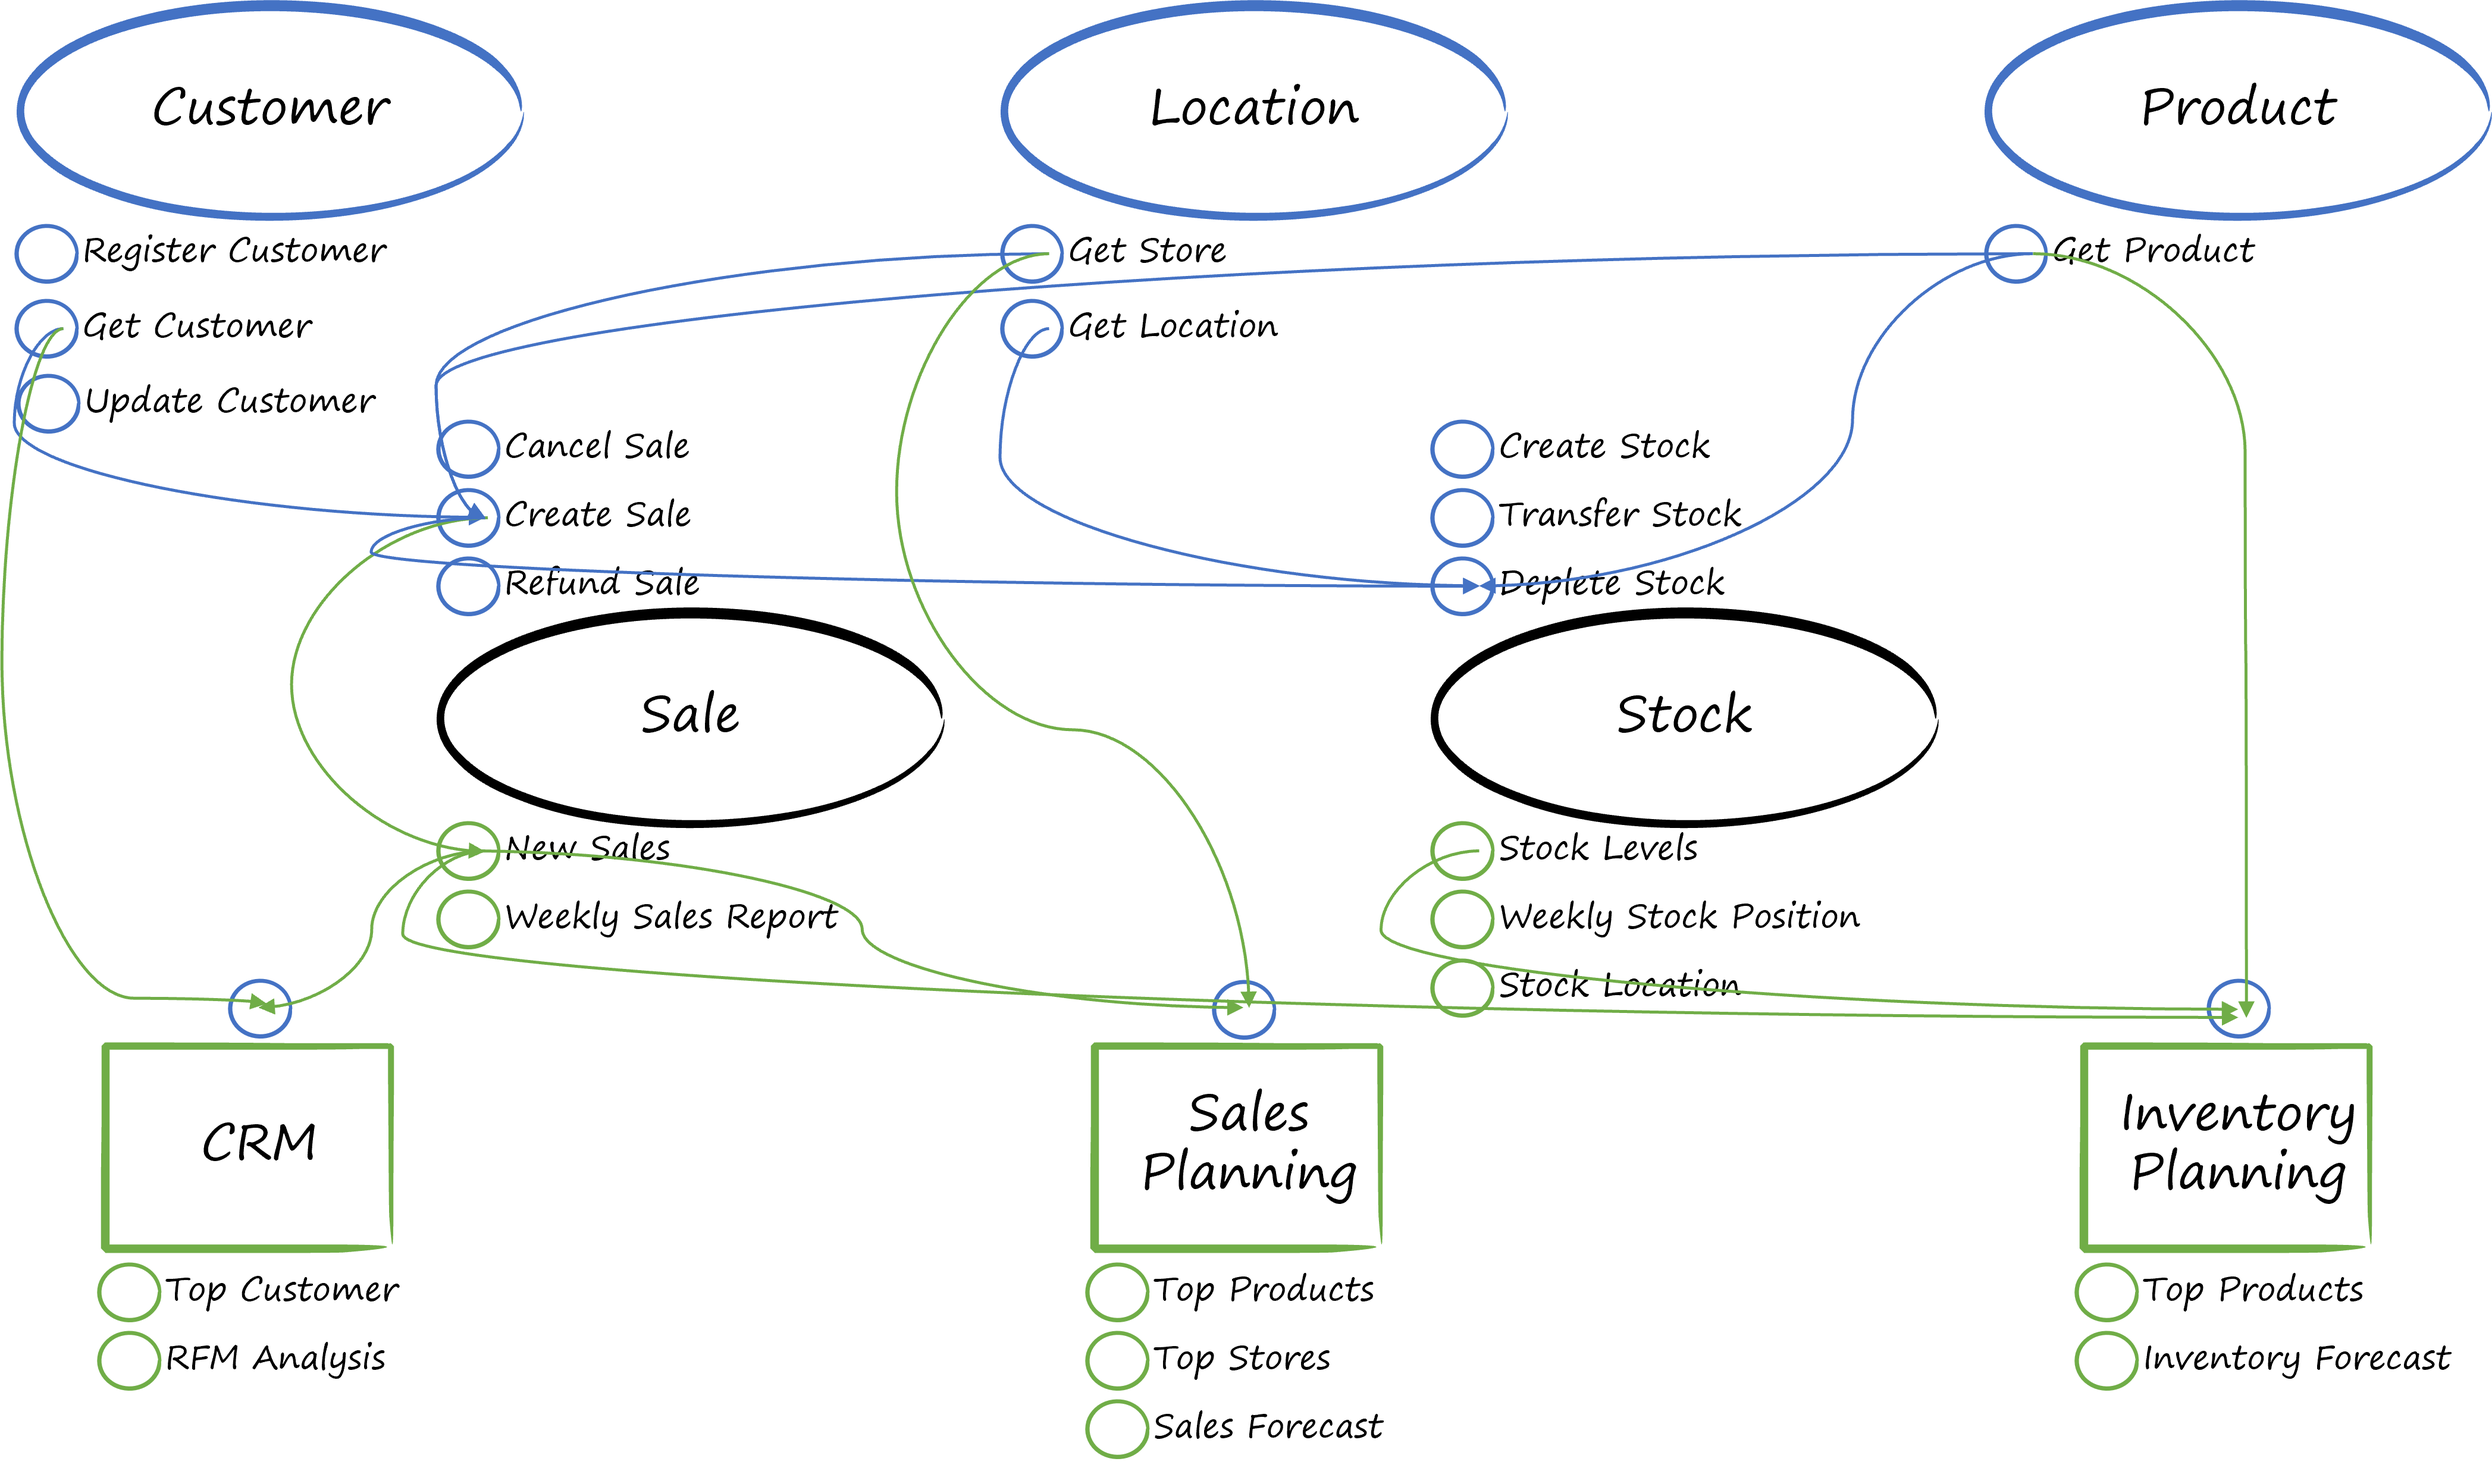
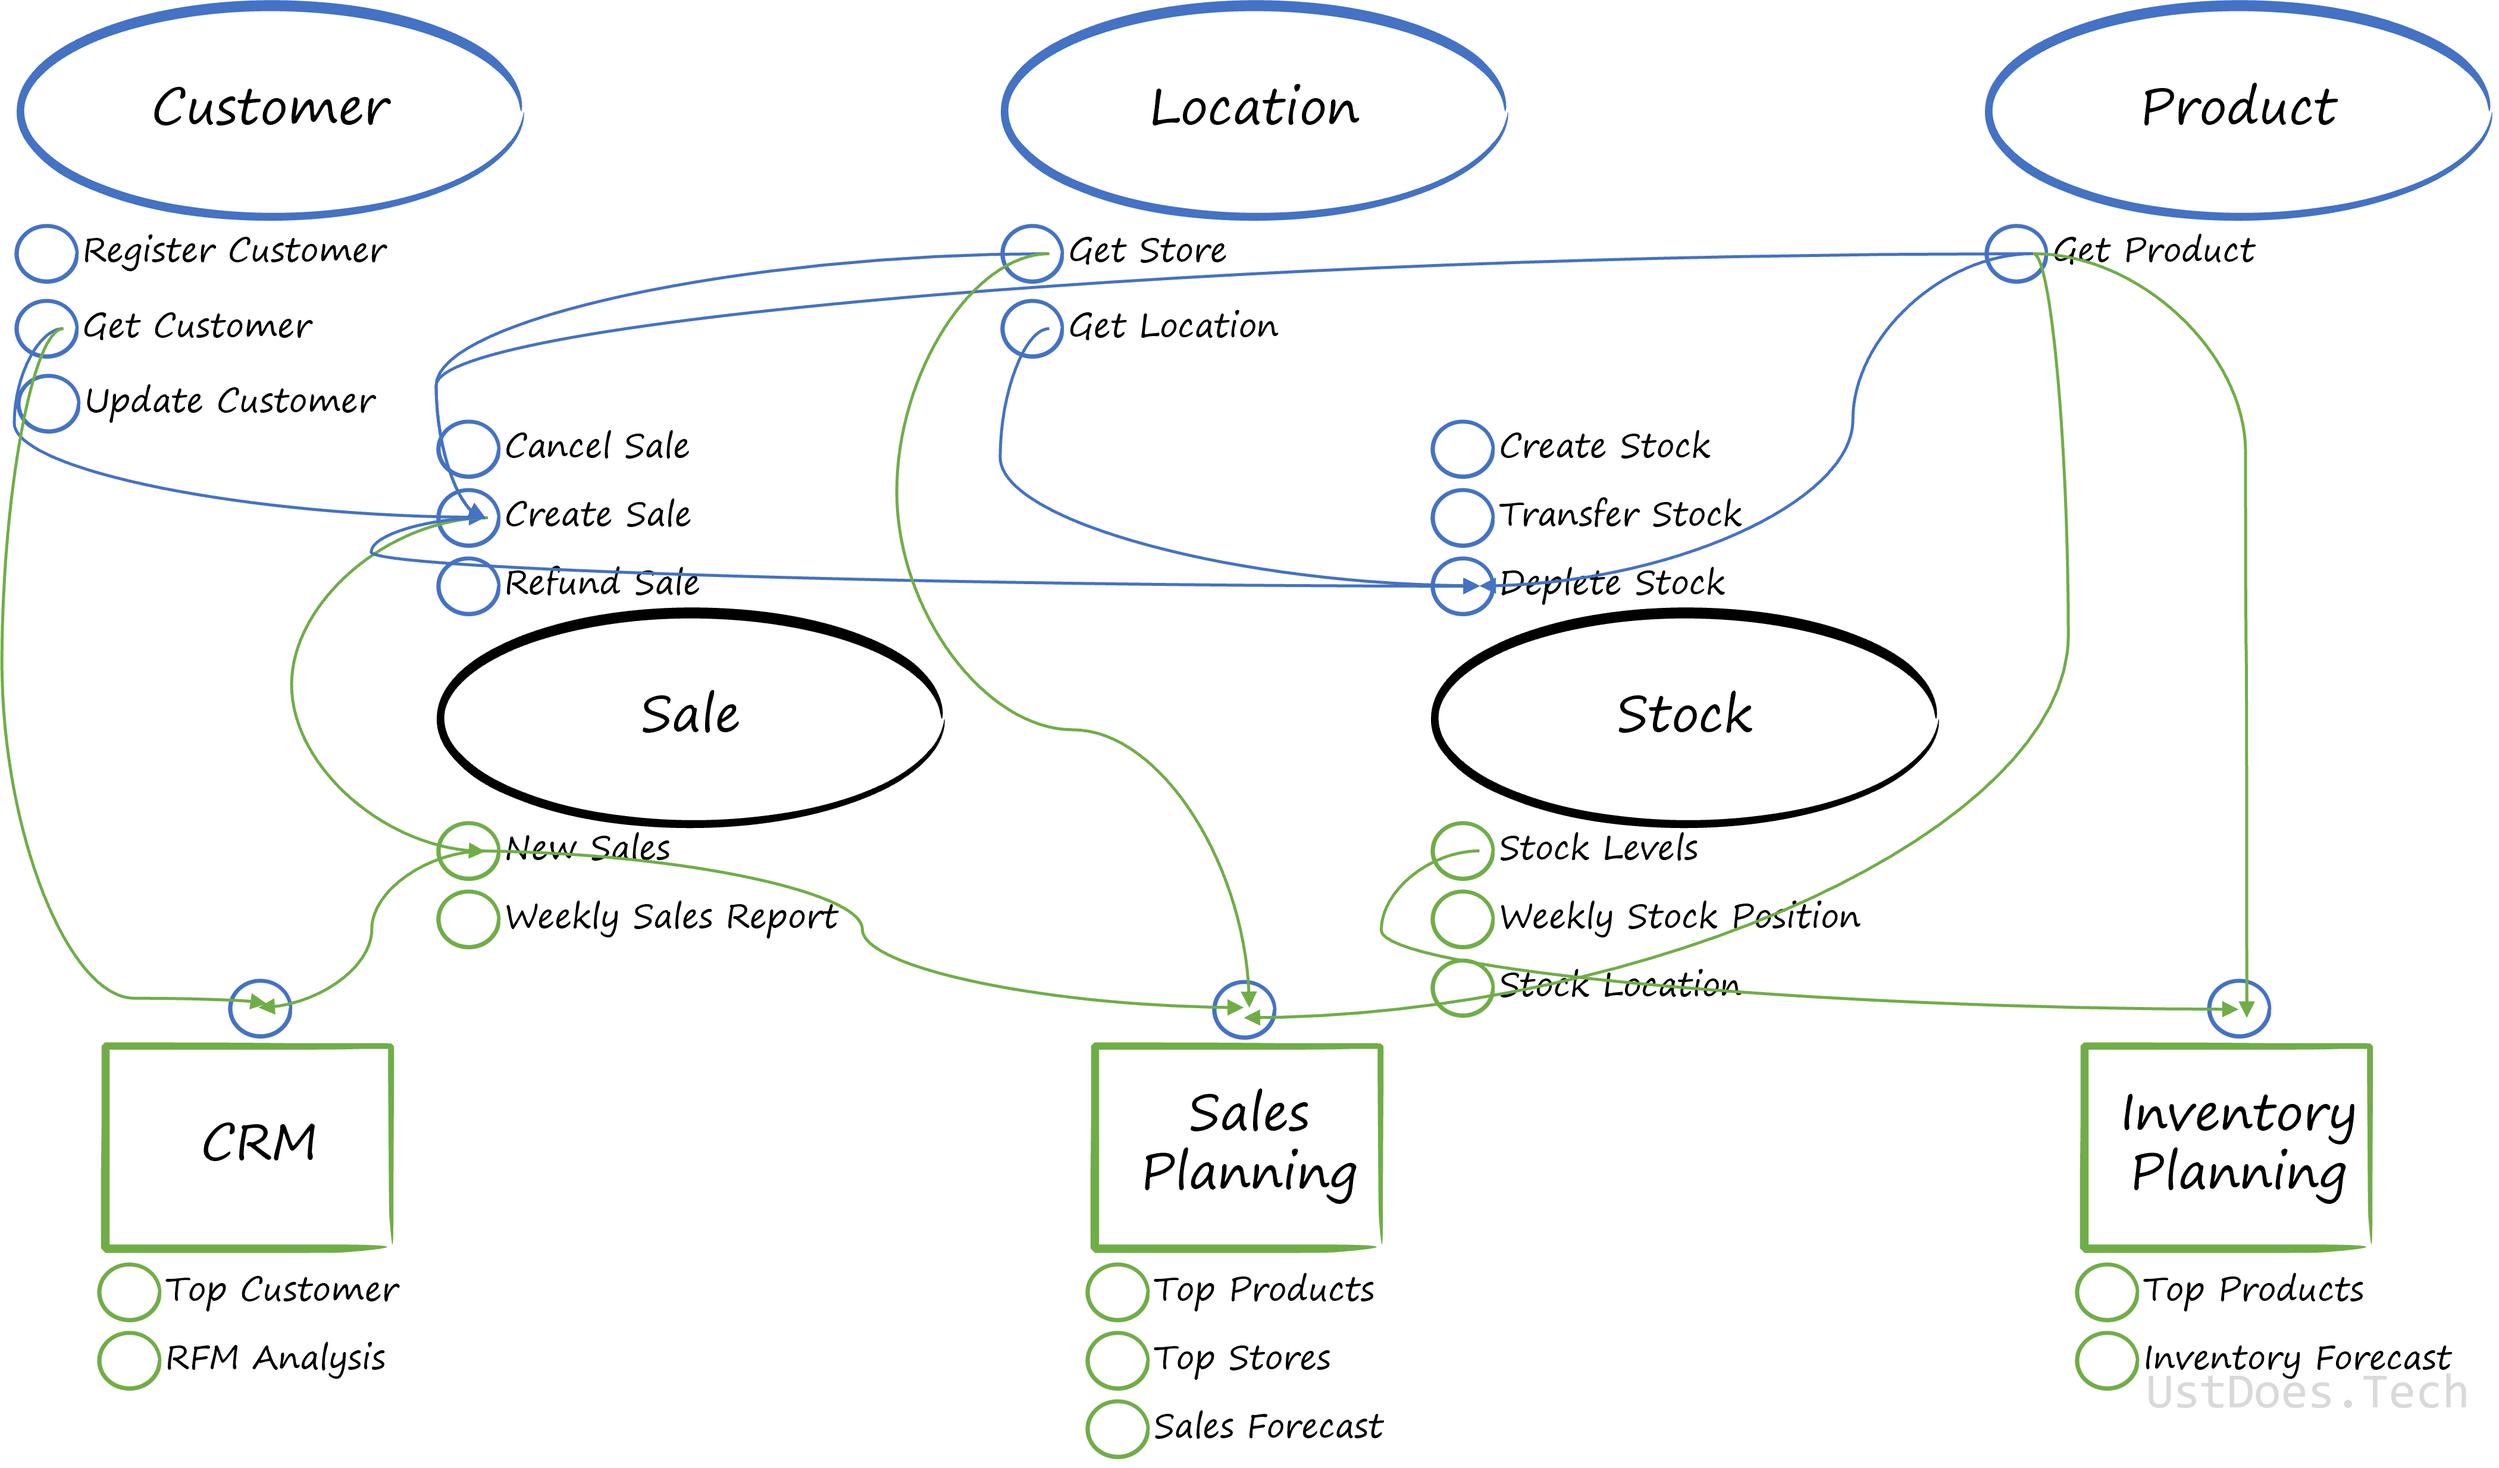
finalising blog post for data domain case study

diff --git a/content/posts/data mesh/data-domain-case-study-retail/index.md b/content/posts/data mesh/data-domain-case-study-retail/index.md
@@ -42,6 +42,73 @@ The organisational structure doesn't make this a simple use case for data mesh. 
 
 {{< img src="images/xclusiv-architecture.png" alt="Image with POS and ERP flowing into a Data Warehouse with Cube" width="600" align="center">}}
 
-We could separate domains into Sale, Product, Customer, Location, Stock etc., and that would work quite nicely if there was system alignment across markets (and that is a technological hurdle which shouldn't be insurmountable). 
+We could separate domains into Sale, Product, Customer, Location, Stock etc., and that would work quite nicely if there was system alignment across markets (and that is a technological hurdle which shouldn't be insurmountable). The following diagram details the data flow from one domain to another with the operational capabilities in blue and the analytical endpoints in green. You'll notice that there's a fair few dependencies, and this is a simplified model. 
 
 {{< img src="images/data-flow-domains-xclusiv.png" alt="Image with the data flow between the different domains listed" width="900" align="center">}}
+
+Regardless of whether XclusiV has embraced microservices or retain LOB applications, the logical flow of data between arbitrary domains would be the same. But who should own what?
+
+### Domain Ownership
+
+Domains can span multiple subject areas and have many dependencies. Let's take Sales and Stock, as the driving forces for business - without stock, there's no sales. If there are no sales, there's no business.
+
+#### Retail Operations Team
+
+{{< img src="images/data-flow-domain-ownership-ops-xclusiv.png" alt="Retail Operations Domain Ownership" width="500" align="center">}}
+
+In this example, the operational capabilities and associated analytical endpoints for Sales and Stock domains come under the ownership of the Retail Operations Team. They're tightly aligned to the creation of data and with the operational analytical demands, like *Weekly Sales Report* and *Weekly Stock Position*. The team is responsible for the input of data, the quality of the data, and associated output. 
+
+>But surely the Retail Operations Teams is responsible for everything in the POS? 
+
+Yes, at the moment that is how XclusiV currently arranges its business. But the Retail Operations Team aren't actually that interested in domains like Customer, or Location, or Product - so why would they want to own it? The team is responsible for the day-to-day operations of the stores and not concerned with product development, customer relationships - that's the preserve of other teams.
+
+#### Customer Relationship Team
+
+Unsurprisingly, the Customer Relationship Team should own the Customer domain, as well as the CRM domain. 
+
+{{< img src="images/data-flow-domain-ownership-crm-xclusiv.png" alt="Customer Relationship Domain Ownership" width="500" align="center">}}
+
+The Customer Relationship Team wants to ensure that the right customers are targeted, that the right customer relationships are nurtured, and the quality of the customer data is accurate - specifically with regards to GDPR requests. A poor service, at any engagement point, will damage the reputation of XclusiV and reflect poorly on the Customer Relationship Team. 
+
+#### Finance
+
+Finance are typically the gatekeepers for investment, as well as divestment. If sales are growing, there could be scope for opening up more stores or expanding product ranges. Conversely, if sales are not growing then stores could be closed and the product range could be more limited. Those decisions all rely upon Finance to make, with the advice from other departments.  
+
+{{< img src="images/data-flow-domain-ownership-finance-xclusiv.png" alt="Finance Domain Ownership" width="500" align="center">}}
+
+> What about the Sales Team? 
+
+This is where it can get complicated. I recommend that it's Finance who own these domains as they make the final decision but I do recognise that there is a lot of overlap.
+
+#### Sales Team
+
+There is a lot of overlap between the Sales Team and the Retail Operations and the Finance Teams. 
+
+{{< img src="images/data-flow-domain-ownership-sales-xclusiv.png" alt="Finance Domain Ownership" width="500" align="center">}}
+
+The Sales Team could be responsible for the Sales Planning Domain, but I argue that they are consumers of the domain as they are targeted by Finance on sales, rather than setting targets and driving decisions based on the data. Conversely, in another organisation it could be the Sales Team who owns the domain and Finance is the consumer. 
+
+#### Buying Team
+
+The Buying Team are responsible for buying products for the various stores based on the trends and types of products that have performed well in the past and expected to perform well in the future. 
+
+{{< img src="images/data-flow-domain-ownership-buying-xclusiv.png" alt="Buying Team Domain Ownership" width="500" align="center">}}
+
+Therefore, the Buying Team owns the Inventory Planning Domain as it needs to plan for inventory it needs to buy. However, you'll notice that the Buying Team does not have ownership of the Product Domain. But who does?
+
+#### Marketing
+
+Marketing owns the Product Domain. Why Marketing and not Buying or Manufacturing? Because Marketing are most keenly interested in the product as they are entirely responsible for the success of a product, how it is marketed and it's performance (from a sales perspective). Owners of Product Domain but consumers of the Sales Planning Domain. Marketing sets the brief for products to be created. 
+
+{{< img src="images/data-flow-domain-ownership-marketing-xclusiv.png" alt="Buying Team Domain Ownership" width="500" align="center">}}
+
+Manufacturing is concerned about output and quality of the product but they're not that interested in the success of a product. Buying is concerned about the required inventory of the product, but not the product itself. That's why Marketing is, in my opinion, the correct owner of the Product Domain. 
+
+
+## Cross-Divisions
+
+The examples above assume a single division - but we know that XclusiV is a multi-divisional organisation. How will it work with more than one division? We can have duplication of domains - to reflect the physical division of the organisation. This will also allow th organisation to scale if it decides to create or acquire new divisions or even divest divisions. 
+
+XclusiV could re-organise and have shared domains across the divisions, but this would be counter to the principles of data mesh, as domains should be aligned to the organisation. In addition, to re-organise into shared domains across divisions wouldn't be scalable and would impose some of the same challenges and restrictions of the current analytical structure. 
+
+For cross-divisional functions, like IT, we'll explore their role in [Self-Serve Analytical Platform Fictional Case Study: Retail](../self-serve-platform-case-study-retail/) and for cross divisional consumers, like Group Finance, we'll explore how they would consume data in [Data Product Fictional Case Study: Retail](../data-product-case-study-retail/)

diff --git a/content/posts/data mesh/data-mesh-deep-dive/index.md b/content/posts/data mesh/data-mesh-deep-dive/index.md
@@ -75,8 +75,6 @@ But that's not all there is to a data product. It is much more than a compositio
 
 The reason why a data product has those core principles is because it makes it easier to use. What's the point of building something if it's not going to be used? Also, a data product can be used by other domains - so we need to treat any other domain just like any other customer. In fact, there's no fundamental difference between a domain customer and any other data customer. 
 
-
-
 ## Self-Serve Data Platform
 
 A Self-Serve Data Platform is effectively Platform-as-a-Service with Infrastructure as Code principles, with some additional abstraction to lower the barriers of entry needed to build data products. 

diff --git a/content/posts/data mesh/self-serve-platform-case-study-retail/index.md b/content/posts/data mesh/self-serve-platform-case-study-retail/index.md
@@ -1,0 +1,13 @@
+---
+title: "Self-Serve Analytical Platform Fictional Case Study: Retail"
+date: 2021-08-30T12:04:25+06:00
+description: Using a fictionalised case study to understand how a self-serve analytical platform could work in practice
+menu:
+  sidebar:
+    name: Self-Serve Analytical Platform Fictional Case Study in Retail
+    identifier: self-serve-platform-case-study-retail
+    parent: data-mesh
+    weight: 5
+---
+
+# COMING SOON

diff --git a/content/posts/data mesh/data-product-case-study-retail/index.md b/content/posts/data mesh/data-product-case-study-retail/index.md
@@ -1,0 +1,13 @@
+---
+title: "Data Product Fictional Case Study: Retail"
+date: 2021-08-30T12:04:25+06:00
+description: Using a fictionalised case study to understand how data products could work in practice
+menu:
+  sidebar:
+    name: Data Product Fictional Case Study in Retail
+    identifier: data-product-case-study-retail
+    parent: data-mesh
+    weight: 4
+---
+
+# COMING SOON
